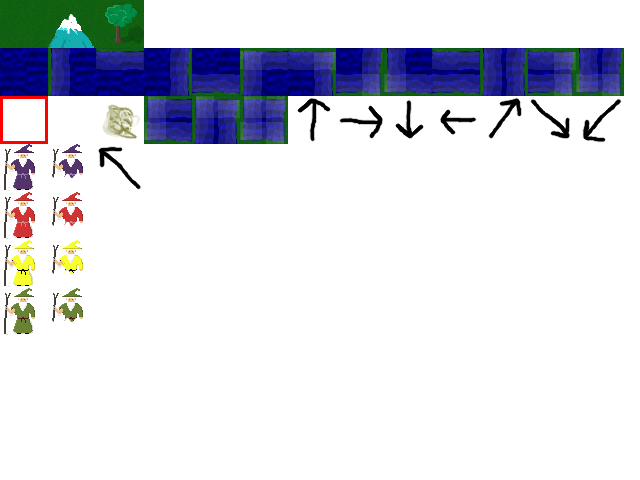
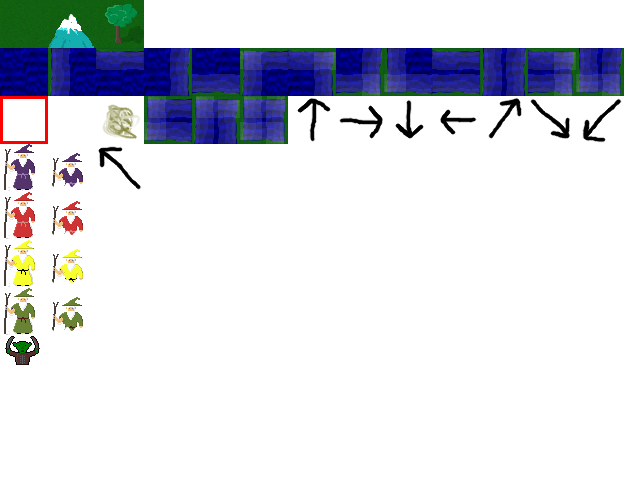
Started to draw a goblin, it doesn't have any legs yet though...

Changed region(s): [[0.0625, 0.2812, 0.1562, 0.6875], [0.0, 0.6875, 0.0625, 0.7812]]

diff --git a/wizard.py b/wizard.py
@@ -560,7 +560,7 @@ class Player(object):
 
         if isPlayer:
             self.controlled.append(Goblin(pos+Point(1,1),
-                                          self.player_character.type,
+                                          'goblin',
                                           tiles,
                                           isPlayer,
                                           self.player_character.name + '\'s Goblin',
